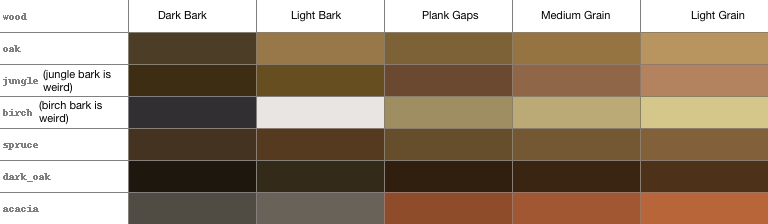
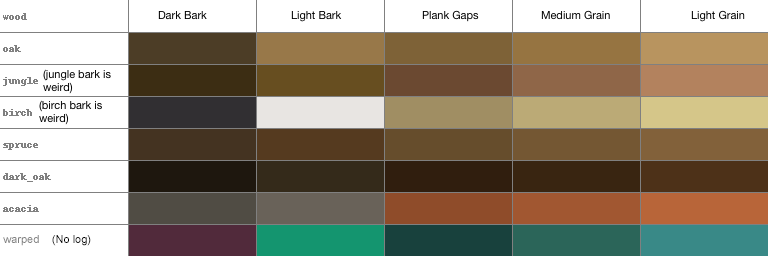
warped basics

diff --git a/bin/colorize.py b/bin/colorize.py
@@ -27,6 +27,7 @@ camel_caps_re = re.compile('_([a-z])')
 
 aliases = {}
 color_config = {}
+name_fixes = {}
 camel_caps = False
 
 
@@ -128,6 +129,9 @@ def file_from_color(file_patterns, color_name):
             if camel_caps:
                 n = camel_caps_re.sub(to_camel_case, n[0].capitalize() + n[1:])
             cpath = file_pat.replace('COLOR', n)
+            if n in name_fixes:
+                for pat in name_fixes[n]:
+                    cpath = cpath.replace(pat[0], pat[1])
             if os.path.isfile(cpath):
                 return color_name, cpath
 
@@ -218,6 +222,16 @@ def find_cols(img):
     return cols
 
 
+def build_name_fixes(fix_specs):
+    if len(fix_specs) == 0:
+        return None
+    fixes = []
+    for f in fix_specs:
+        rhs, lhs = f.split('=')
+        fixes.append([rhs, lhs])
+    return fixes
+
+
 def parse_colors():
     color_dir = clip.directory('config', 'colorize')
     for color_file in glob.glob('%s/*.png' % color_dir):
@@ -238,7 +252,12 @@ def parse_colors():
             colors = ()
             for x in cols:
                 colors += (data[x, y],)
-            color_set[names[i]] = colors
+            name = names[i]
+            name_split = name.split()
+            if len(name_split) > 1:
+                name = name_split[0]
+                name_fixes[name] = build_name_fixes(name_split[1:])
+            color_set[name] = colors
             i += 1
         color_config[which] = color_set
     return
